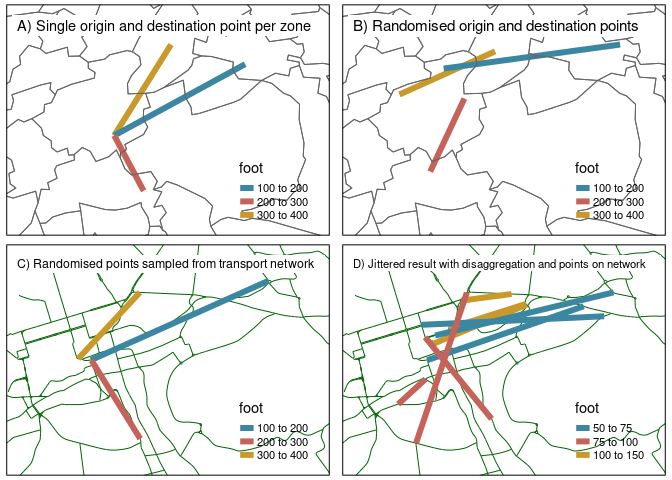
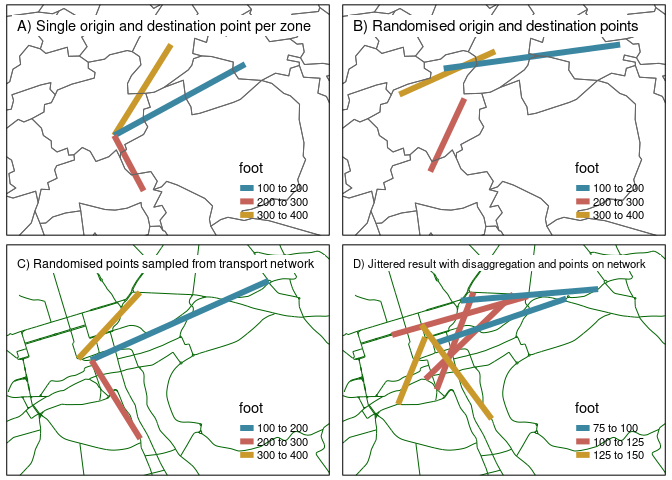
Mini updates from chat with Rosa

Changed region(s): [[0.5625, 0.5938, 0.9375, 0.9375], [0.875, 0.875, 0.9688, 0.9688], [0.7188, 0.8438, 0.75, 0.875]]

diff --git a/README.md b/README.md
@@ -111,38 +111,40 @@ the methods illustrated in each of the facetted maps in Figure
 ![Figure 2.1: Illustration of jittering and disaggregation of OD data on
 small input dataset.](README_files/figure-gfm/jitters-1.png)
 
-## 2.1 Random sampling of origin and destination points
+## 2.1 Sampling origin and destination points
 
-The simplest approach to jittering is simple random spatial sampling, as
-illustrated in Figure <a href="#fig:jitters">2.1</a> (B). This involves
-generating random coordinate pairs using a random number generator,
-testing to check if the point is contained withing the boundary of each
-zone from which points are required, and repeating the process until
-enough randomly located points have been created. This approach has the
-advantages of simplicity, requiring no additional datasets. A
-disadvantage of simple random sampling in areas where trip origins and
-trip attractors are concentrated within certain parts of geographic
-zones, such as in rural areas, is that it may lead to unrealistic
-results, e.g. with trips being simulated to start in rivers and in
-uninhabited wilderness areas.
+<!-- ## Random sampling of origin and destination points -->
 
-## 2.2 Sampling origin and destination points from the transport network
+Key to jittering is ensuring that each trip starts and ends in a
+different place. To do this, there must be ‘sub-points’ within each
+zone, one for each trip originating and departing.
+
+The simplest approach is simple random spatial sampling, as illustrated
+in Figure <a href="#fig:jitters">2.1</a> (B). This involves generating
+random coordinate pairs, testing to check if the point is contained
+withing the boundary of each zone from which points are required, and
+repeating the process until enough randomly located points have been
+created. This approach has the advantages of simplicity, requiring no
+additional datasets, but has the disadvantage of that it may lead to
+unrealistic start and end points, e.g. with trips being simulated to
+start in rivers and in uninhabited wilderness areas.
+
+<!-- ## Sampling origin and destination points from the transport network -->
 
 To overcome the limitations of the simple random sampling approach, the
 universe of possible coordinates from which trips can originate and end
 can be reduced by providing another geographic input dataset. This
-dataset could contain known trip attractors such as city centres and
+dataset could contain known trip attractors such as city centers and
 work places, as well as tightly defined residential ‘subzones’. For
 highly disaggregated flows in cases where accurate building datasets are
-available, building footprints could also be used.
+available, building footprints could also be used. Perhaps the most
+useful input for subsampling, however, is a transport road network, as
+illustrated in Figure <a href="#fig:jitters">2.1</a> (C): transport
+network datasets are readily available in most places and ensure that
+all trips happen on the network, an advantage when using some routing
+services.
 
-Perhaps the most useful type of subsampling, however, is on the road
-network, as illustrated in Figure <a href="#fig:jitters">2.1</a> (C):
-transport network datasets are readily available in most places and
-ensure that all trips happen on the network, an advantage when using
-some routing services.
-
-## 2.3 Disaggregation
+## 2.2 Disaggregation
 
 Both of the jittering techniques outlined above generate more diffuse
 route networks. However, a problem with OD datasets is that they are
@@ -177,8 +179,6 @@ disaggregation.
 
 Table 2.2: Attribute data associated with an OD pair after
 disaggregation.
-
-## 2.4 Jittering
 
 We refer to the combined process of sampling origin and destination
 points — either using simple random geographic sampling, sampling from
